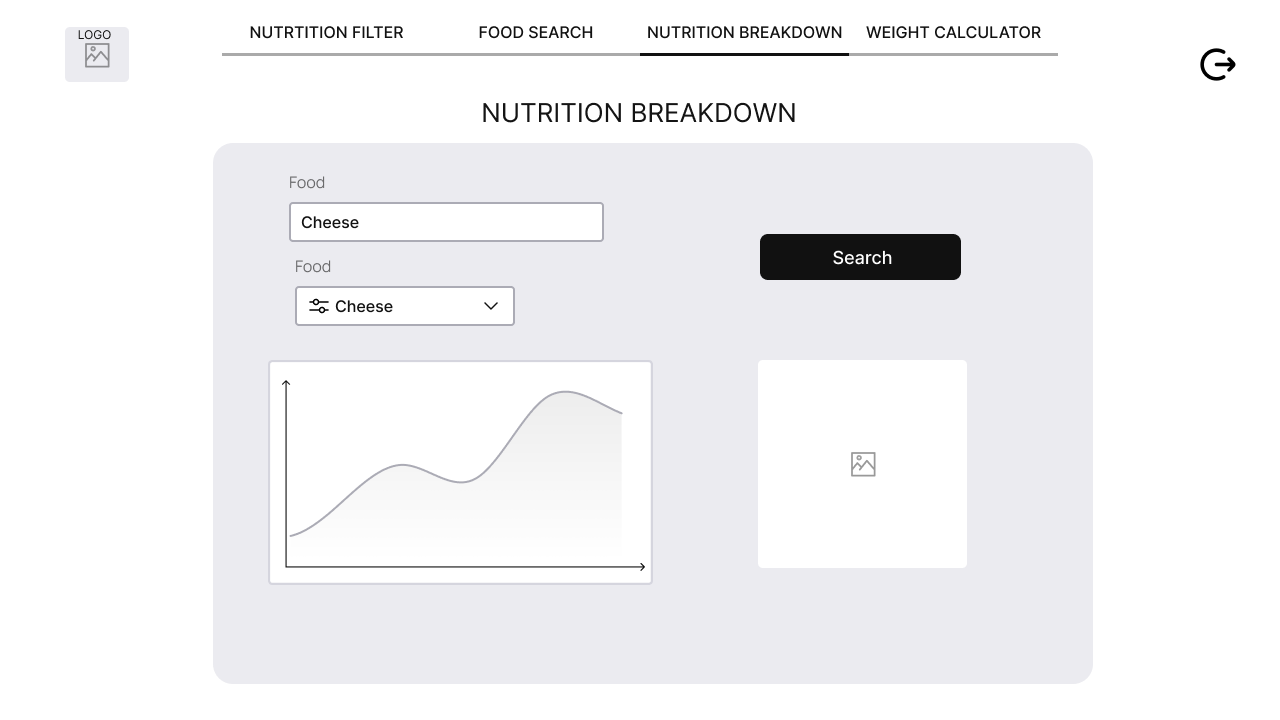
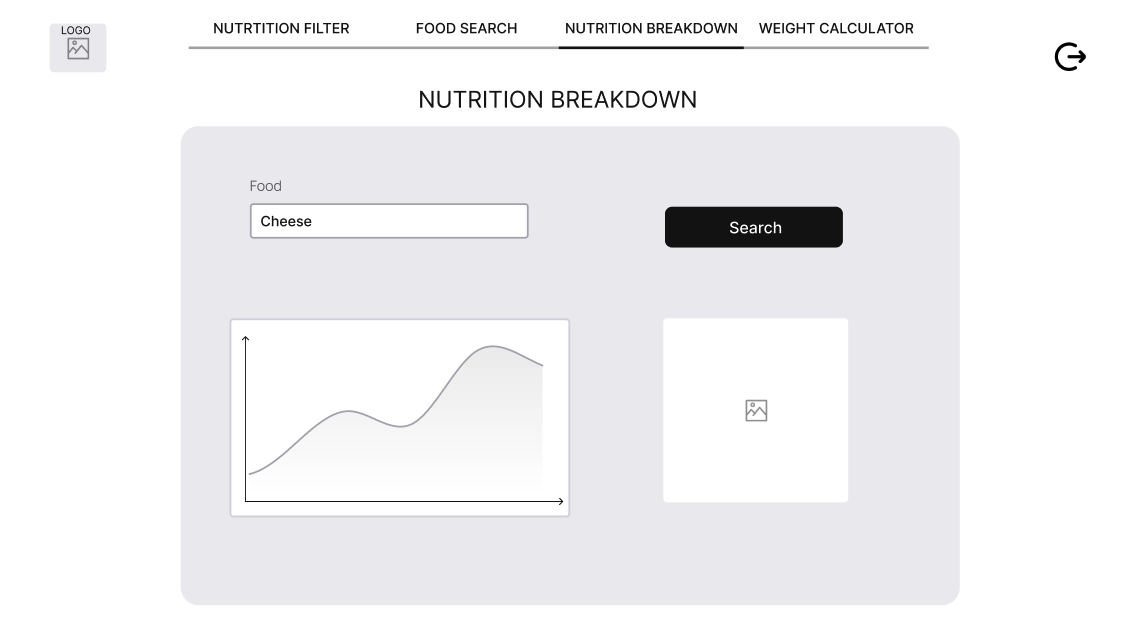
Updated wireframes in SDD

diff --git a/Software Design Document.md b/Software Design Document.md
@@ -665,9 +665,11 @@ The wireframes correspond to different screens in the user journey as described 
 - **User Flow**: Simple decision-making process at the beginning, either to exit the app or proceed to the main interface.
 - **Justification**: This screen minimizes decision fatigue by offering only two key choices, streamlining the user’s first interaction with the application.
 
-##### **Wireframe 2: Nutrition Filter**
+##### **Updated Wireframe 2: Nutrition Filter**
 
-![Nutrition Filter](./NutritionFilterWireframe.png)
+![Nutrition Filter](./NutritionFilterWireframe1.png)
+![Nutrition Filter](./NutritionFilterWireframe2.png)
+<span style="color:red">**Image Updated to have "nutrition range" and "nutrition level" sections navigated to via tabs on the nutrition filer screen**
 
 - **Visual Components**:
     - Two filtering sections: one for "Nutrition Range" and one for "Nutrition Level."
@@ -695,9 +697,10 @@ The wireframes correspond to different screens in the user journey as described 
 - **User Flow**: A simple search leads to clear and actionable next steps, allowing users to drill down into the data if needed.
 - **Justification**: This wireframe provides a straightforward way for users to search for a specific food, see its data, and perform advanced actions like breakdowns and calculations, enhancing usability.
 
-##### **Wireframe 4: Nutrition Breakdown**
+##### **Updated Wireframe 4: Nutrition Breakdown**
 
 ![Nutrition Breakdown](./NutritionBreakdownWireframe.png)
+<span style="color:red">**Image Updated to remove the food selection input, leaving only the text input**
 
 - **Visual Components**:
     - Input field for food.
@@ -711,13 +714,13 @@ The wireframes correspond to different screens in the user journey as described 
 ##### **Wireframe 5: Weight Calculator**
 
 ![Weight Calculator](./WeightCalculatorWireframe.png)
-
+<span style="color:red">**Removed the graphical display of data, leaving only table**
 - **Visual Components**:
     - Input field for food and weight.
     - Results table with calculated values based on the input weight.
 - **Functional Justification**:
     - **Weight input**: Allows users to calculate nutritional values based on a specific serving size, providing personalized data.
-    - **Graph and results table**: These visually and numerically display the calculated values, ensuring users get both a detailed and high-level view.
+    - <span style="color:red">**Results table**: These numerically display the calculated values, ensuring users get a detailed view of the data.
 - **User Flow**: Users input food and weight, then receive tailored nutritional data.
 - **Justification**: This wireframe adds personalization by allowing users to adjust serving sizes and see the nutritional impact. It’s especially useful for users tracking their intake or tailoring it to specific needs.
 
